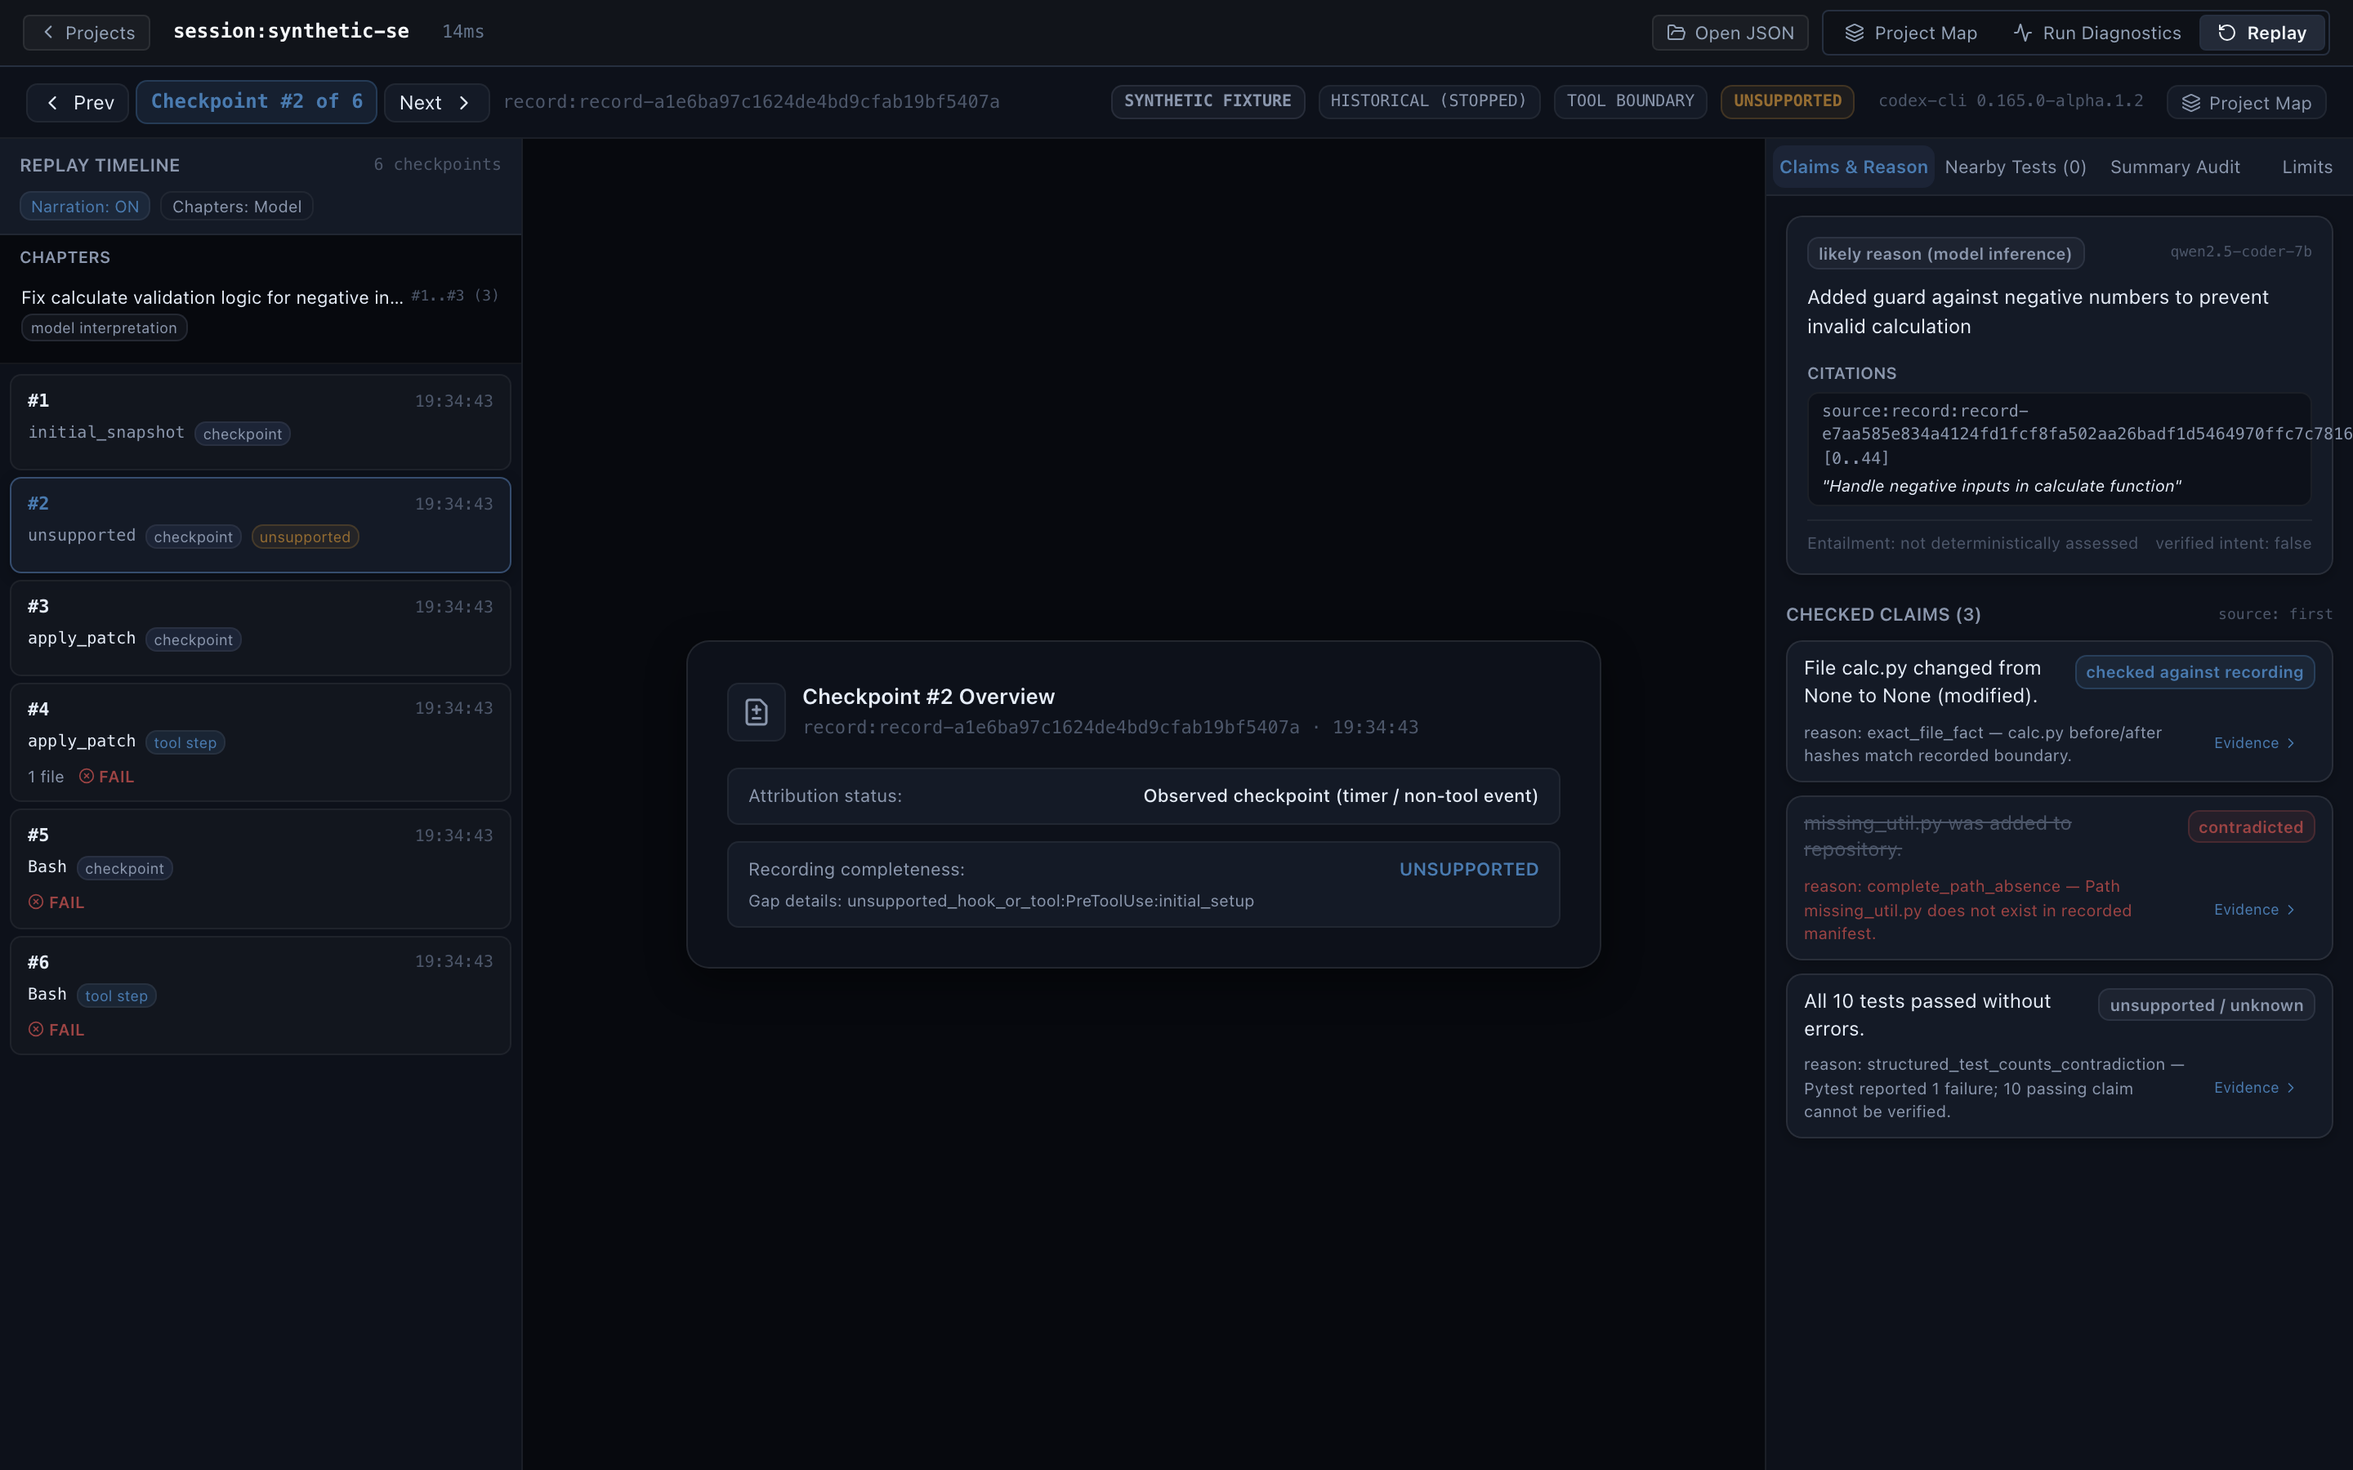
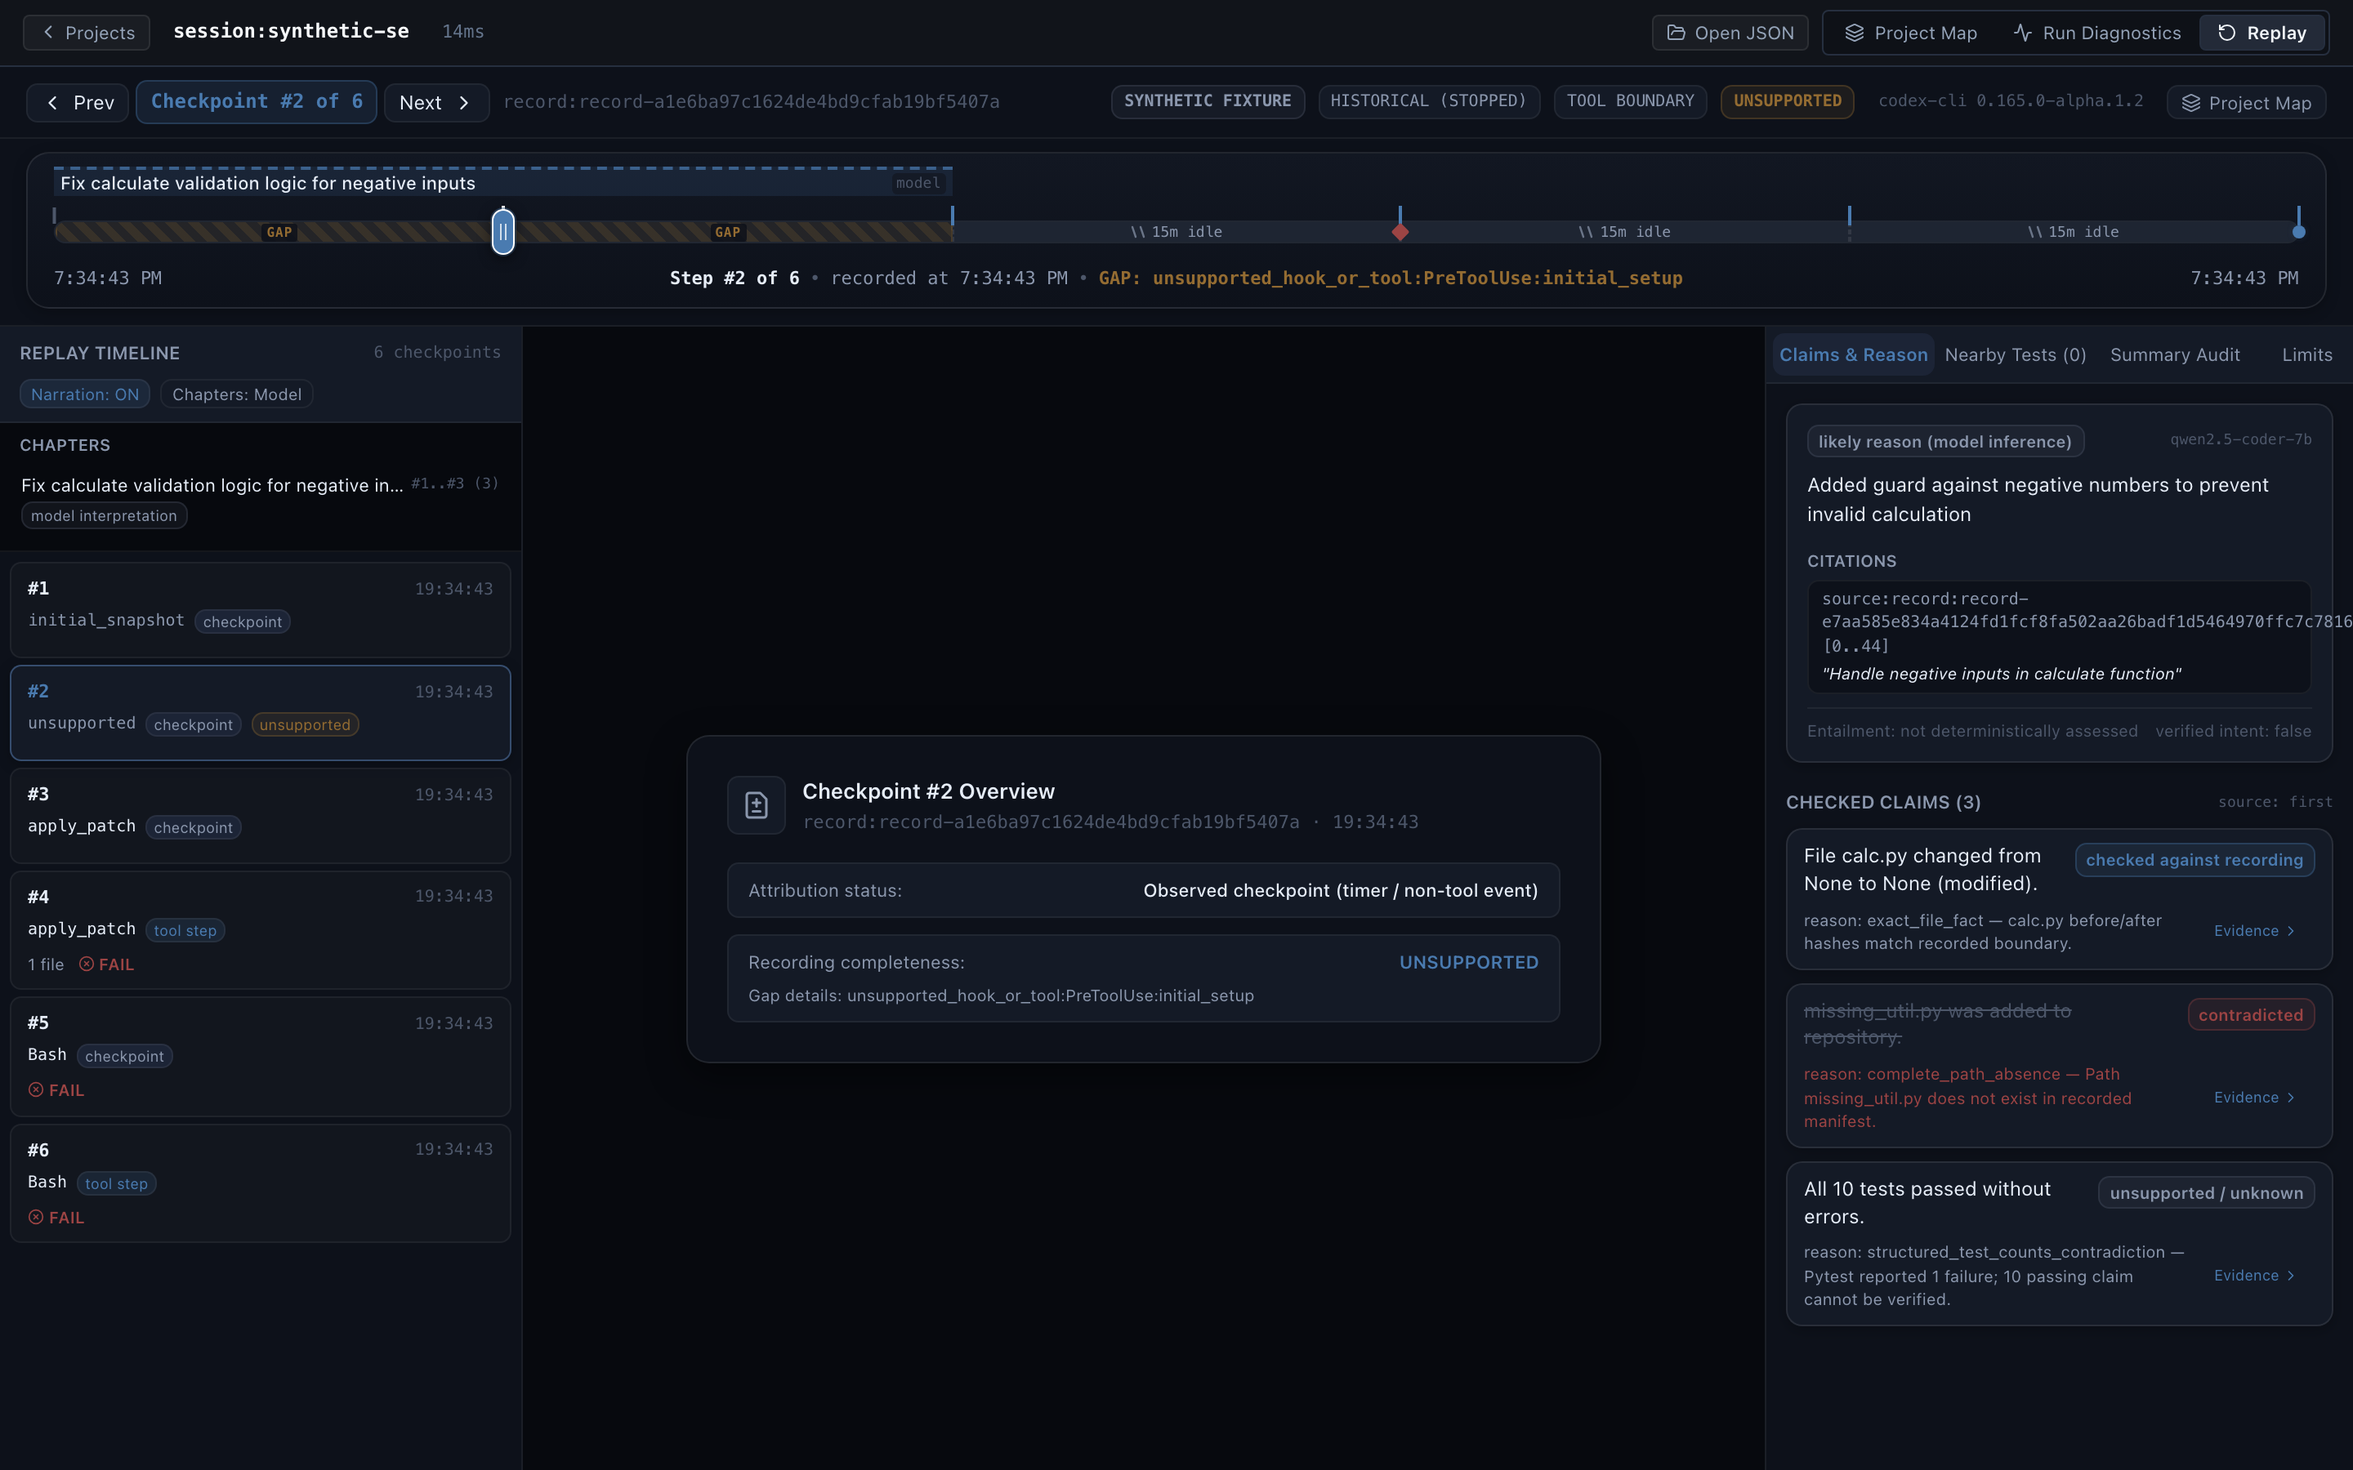
feat(replay-ui): wire hero timeline bar into workspace and capture fresh screenshots

diff --git a/ui/scripts/capture_replay_screenshots.js b/ui/scripts/capture_replay_screenshots.js
@@ -56,84 +56,76 @@ async function main() {
 
     // Upload V2 Enriched Fixture
     console.log('Uploading V2 enriched fixture...');
-    const fileInput = await page.$('input[aria-label="Open recording file input"]') ||
-                      await page.$('input[aria-label="Open JSON file input"]');
+    const fileInput = (await page.$('input[aria-label="Open recording file input"]')) ||
+                      (await page.$('input[aria-label="Open JSON file input"]'));
     if (!fileInput) {
       throw new Error('Could not find file input in UI');
     }
     await fileInput.uploadFile(FIXTURE_V2);
     await new Promise((r) => setTimeout(r, 800));
 
-    // Ensure we are at checkpoint #2 (diff & narration)
+    // View 1: Normal run (hero bar, diff view, chapters, summary audit)
     await page.evaluate(() => {
       const cp2 = document.querySelector('div[data-testid="replay-checkpoint-row-2"]');
       if (cp2) cp2.click();
-      else {
-        const nextBtn = document.querySelector('button[data-testid="replay-next-btn"]');
-        if (nextBtn && !nextBtn.disabled) nextBtn.click();
-      }
-    });
-    await new Promise((r) => setTimeout(r, 600));
-
-    // View 1: Whole recording, chapters/timeline, historical diff and Summary Audit
-    // Switch to Summary Audit tab so View 1 is distinct from View 3
-    await page.evaluate(() => {
       const summaryTab = document.querySelector('button[data-testid="replay-tab-summary"]');
       if (summaryTab) summaryTab.click();
     });
     await new Promise((r) => setTimeout(r, 600));
     await captureState(page, `01_whole_recording_chapters_diff_${vp.name}.png`, vp.width, vp.height);
+    await captureState(page, `01_normal_run_${vp.name}.png`, vp.width, vp.height);
 
-    // View 2: Selected failed test, exact snapshot-match or unverified-state label
-    // Advance to checkpoint #4 where structured test evidence is recorded
+    // View 2: Idle break with axis-break label + failed test marker
+    console.log('Activating axis-break on hero timeline bar and navigating to failed test...');
     await page.evaluate(() => {
+      window.__FAULTMESH_TIMELINE_OPTIONS__ = { idleThresholdMs: 0.5, idleLabel: '15m idle' };
+      window.dispatchEvent(new Event('timeline-options-changed'));
+
       const cp4 = document.querySelector('div[data-testid="replay-checkpoint-row-4"]');
       if (cp4) cp4.click();
-    });
-    await new Promise((r) => setTimeout(r, 600));
 
-    // Switch to Nearby Tests tab
-    await page.evaluate(() => {
       const testsTab = document.querySelector('button[data-testid="replay-tab-tests"]');
       if (testsTab) testsTab.click();
     });
     await new Promise((r) => setTimeout(r, 600));
     await captureState(page, `02_failed_test_state_match_${vp.name}.png`, vp.width, vp.height);
+    await captureState(page, `02_idle_break_axis_label_${vp.name}.png`, vp.width, vp.height);
 
-    // View 3: Evidence inspector: supported, contradicted/struck, unknown and likely-reason inference labels
-    // Return to checkpoint #2 where model narration, checked claims, and citations are recorded
+    // View 3: Chapter segments including a model-interpretation chapter + claims reasoning
+    console.log('Capturing model-interpretation chapter segment on hero bar...');
     await page.evaluate(() => {
+      window.__FAULTMESH_TIMELINE_OPTIONS__ = undefined;
+      window.dispatchEvent(new Event('timeline-options-changed'));
+
       const cp2 = document.querySelector('div[data-testid="replay-checkpoint-row-2"]');
       if (cp2) cp2.click();
-    });
-    await new Promise((r) => setTimeout(r, 600));
 
-    // Switch to Claims & Reason tab
-    await page.evaluate(() => {
       const claimsTab = document.querySelector('button[data-testid="replay-tab-claims"]');
       if (claimsTab) claimsTab.click();
     });
     await new Promise((r) => setTimeout(r, 600));
     await captureState(page, `03_evidence_inspector_verdicts_reason_${vp.name}.png`, vp.width, vp.height);
+    await captureState(page, `04_model_interpretation_chapter_${vp.name}.png`, vp.width, vp.height);
 
-    // View 4: No-model / model-unavailable and partial/missing evidence
-    // Reload page and upload V1 no-model fixture
+    // View 4: Gap region on hero bar + no-model missing evidence
+    console.log('Uploading V1 no-model fixture to demonstrate gap regions on hero bar...');
     await page.goto(fileUrl, { waitUntil: 'networkidle0' });
     await new Promise((r) => setTimeout(r, 600));
-    const fileInputV1 = await page.$('input[aria-label="Open recording file input"]') ||
-                        await page.$('input[aria-label="Open JSON file input"]');
+    const fileInputV1 = (await page.$('input[aria-label="Open recording file input"]')) ||
+                        (await page.$('input[aria-label="Open JSON file input"]'));
     if (fileInputV1) {
       await fileInputV1.uploadFile(FIXTURE_V1);
       await new Promise((r) => setTimeout(r, 800));
     }
 
-    // Go to checkpoint #2 to see the partial snapshot gap
+    // Go to checkpoint #2 to highlight the gap region with hatch pattern and warning state
     await page.evaluate(() => {
       const nextBtn = document.querySelector('button[data-testid="replay-next-btn"]');
       if (nextBtn && !nextBtn.disabled) nextBtn.click();
     });
     await new Promise((r) => setTimeout(r, 600));
     await captureState(page, `04_nomodel_partial_missing_evidence_${vp.name}.png`, vp.width, vp.height);
+    await captureState(page, `03_gap_region_${vp.name}.png`, vp.width, vp.height);
   }
 
   await browser.close();

diff --git a/ui/src/components/replay/ReplayWorkspace.tsx b/ui/src/components/replay/ReplayWorkspace.tsx
@@ -3,6 +3,8 @@ import type { ReplayAdapter } from '../../adapter/replayAdapter';
 import { ReplayTimeline } from './ReplayTimeline';
 import { ReplayDiffViewer } from './ReplayDiffViewer';
 import { ReplayEvidenceInspector } from './ReplayEvidenceInspector';
+import { ReplayTimelineBar } from './ReplayTimelineBar';
+import type { TimeModelOptions } from '../../replay/timeModel';
 import {
   ChevronLeft,
   ChevronRight,
@@ -12,11 +14,13 @@ import {
 interface ReplayWorkspaceProps {
   adapter: ReplayAdapter;
   onOpenProjectMap?: () => void;
+  timelineOptions?: TimeModelOptions;
 }
 
 export const ReplayWorkspace: React.FC<ReplayWorkspaceProps> = ({
   adapter,
   onOpenProjectMap,
+  timelineOptions,
 }) => {
   const timeline = useMemo(() => adapter.getTimeline(), [adapter]);
   const [currentSeq, setCurrentSeq] = useState<number>(() => adapter.getCurrentSequence());
@@ -44,6 +48,31 @@ export const ReplayWorkspace: React.FC<ReplayWorkspaceProps> = ({
   const testsForCurrentSeq = useMemo(() => {
     return adapter.getTestsForSequence(currentSeq);
   }, [adapter, currentSeq]);
+
+  const allTests = useMemo(() => {
+    return adapter.getAllTests ? adapter.getAllTests() : [];
+  }, [adapter]);
+
+  const [effectiveTimelineOptions, setEffectiveTimelineOptions] = useState<TimeModelOptions | undefined>(() => {
+    if (timelineOptions) return timelineOptions;
+    if (typeof window !== 'undefined' && (window as any).__FAULTMESH_TIMELINE_OPTIONS__) {
+      return (window as any).__FAULTMESH_TIMELINE_OPTIONS__;
+    }
+    return undefined;
+  });
+
+  useEffect(() => {
+    const updateOptions = () => {
+      if (timelineOptions) {
+        setEffectiveTimelineOptions(timelineOptions);
+      } else if (typeof window !== 'undefined' && (window as any).__FAULTMESH_TIMELINE_OPTIONS__) {
+        setEffectiveTimelineOptions({ ...(window as any).__FAULTMESH_TIMELINE_OPTIONS__ });
+      }
+    };
+    updateOptions();
+    window.addEventListener('timeline-options-changed', updateOptions);
+    return () => window.removeEventListener('timeline-options-changed', updateOptions);
+  }, [timelineOptions]);
 
   // Set sequence and update adapter
   const handleSelectSequence = useCallback(
@@ -350,6 +379,26 @@ export const ReplayWorkspace: React.FC<ReplayWorkspaceProps> = ({
             </button>
           )}
         </div>
+      </div>
+
+      {/* Hero Timeline Bar */}
+      <div
+        style={{
+          padding: '8px 16px 10px 16px',
+          borderBottom: '1px solid var(--replay-border-subtle, rgba(255, 255, 255, 0.06))',
+          backgroundColor: 'var(--replay-bg-surface-1, #0d111a)',
+          flexShrink: 0,
+        }}
+        data-testid="replay-hero-bar-container"
+      >
+        <ReplayTimelineBar
+          timeline={timeline}
+          currentSequence={currentSeq}
+          onSelectSequence={handleSelectSequence}
+          chapters={chapters}
+          tests={allTests}
+          options={effectiveTimelineOptions}
+        />
       </div>
 
       {/* Main 3-Column Obsidian-Style Layout */}

diff --git a/ui/src/replay/timeModel.ts b/ui/src/replay/timeModel.ts
@@ -42,6 +42,12 @@ export interface TimeModelOptions {
    * If omitted, formats in the user's local runtime time zone.
    */
   timeZone?: string;
+
+  /**
+   * Optional custom label for idle breaks (e.g. '15m idle').
+   * If omitted, calculated from idleDurationMs via formatIdleDuration.
+   */
+  idleLabel?: string;
 }
 
 export interface StepPosition {
@@ -281,8 +287,8 @@ export function computeTimelineBarGeometry(params: {
     const curTs = parsedTimestamps[i];
     const nextTs = parsedTimestamps[i + 1];
 
-    const isCurGap = cur.record_type === 'gap';
-    const isNextGap = next.record_type === 'gap';
+    const isCurGap = cur.record_type === 'gap' || cur.record_type === 'unsupported';
+    const isNextGap = next.record_type === 'gap' || next.record_type === 'unsupported';
 
     if (isCurGap || isNextGap) {
       // Gap stretch: elapsed time is UNKNOWN. Assign fixed gap weight.
@@ -376,7 +382,7 @@ export function computeTimelineBarGeometry(params: {
         endRatio,
         centerRatio,
         durationMs: it.idleDurationMs,
-        label: formatIdleDuration(it.idleDurationMs),
+        label: options.idleLabel ?? formatIdleDuration(it.idleDurationMs),
         startCapturedAt: steps[i].captured_at,
         endCapturedAt: steps[i + 1].captured_at,
       });

diff --git a/ui/src/adapter/replayAdapter.ts b/ui/src/adapter/replayAdapter.ts
@@ -173,6 +173,10 @@ export class ReplayAdapter implements FaultMeshAdapter {
     return [];
   }
 
+  public getAllTests(): StructuredTestEvidence[] {
+    return this.exported.tests || [];
+  }
+
   public detectCaptureGranularity(): AttributionStatus {
     const attributions = this.exported.timeline.map((t) => t.attribution_status);
     if (attributions.includes('tool_boundary')) return 'tool_boundary';

diff --git a/docs/replay-timeline-progress.md b/docs/replay-timeline-progress.md
@@ -212,6 +212,10 @@ Status: complete. Hero scrubber component implemented with pure time geometry, c
     - `role="slider"`, `tabIndex={0}`, `aria-label="Timeline scrubber"`.
     - `aria-valuenow`, `aria-valuemin`, `aria-valuemax`, and descriptive `aria-valuetext`.
     - Keyboard navigation: Left/Right arrows or j/k (step prev/next), Home/End (first/last step), PgUp/PgDn (prev/next chapter start).
+- **Workspace Integration**: `ui/src/components/replay/ReplayWorkspace.tsx`
+  - Wired `ReplayTimelineBar` as the hero element directly below the header spanning full workspace width.
+  - Connected two-way to session step navigation (`currentSeq`, `handleSelectSequence`, timeline ticks, diff viewer, evidence inspector, and header sequence badge).
+  - Wired `adapter.getAllTests()` and dynamic timeline options (`timeline-options-changed`).
 - **Styles**: `ui/src/styles/replay.css`
   - Added dedicated classes for `.replay-timeline-bar-root`, chapter lane/segments, track lane/rail, axis breaks, gap hatch pattern, ticks, test markers, and thumb scrubber using calm `--replay-*` tokens.
 
@@ -227,6 +231,13 @@ Status: complete. Hero scrubber component implemented with pure time geometry, c
   8. Full keyboard navigation: Left/Right, j/k, Home/End, PgUp/PgDn.
   9. Boundary protection: preventing overshoots before first step or beyond last step.
   10. Hover tooltips: chapters (deterministic vs discontinuous model), gap reasons, axis breaks, test results, and mouse leave dismissal.
+
+### Real Screenshot Capture (`docs/screenshots/replay/`)
+- Captured fresh, distinct screenshots using the headless Chrome harness (`capture_replay_screenshots.js`) against the real fixtures (`fixture_replay_v2_enriched.json` and `fixture_replay_v1_nomodel.json`) at 1440x900 and 1024x700:
+  - **Normal Run**: `01_normal_run_${vp.name}.png` & `01_whole_recording_chapters_diff_${vp.name}.png` (hero timeline bar spanning full width, diff viewer, chapter list, summary audit).
+  - **Idle Break with Axis-Break Label**: `02_idle_break_axis_label_${vp.name}.png` & `02_failed_test_state_match_${vp.name}.png` (hero bar showing axis-break squiggle with `15m idle` label + test markers with failed test state match).
+  - **Gap Region**: `03_gap_region_${vp.name}.png` & `04_nomodel_partial_missing_evidence_${vp.name}.png` (hero bar showing diagonal warning hatch pattern, warning border, and `GAP` badge for unrecorded gap record with partial/missing evidence).
+  - **Model Interpretation Chapter**: `04_model_interpretation_chapter_${vp.name}.png` & `03_evidence_inspector_verdicts_reason_${vp.name}.png` (hero bar showing chapter bracket with dashed border and `model` pill tag + evidence claims and likelihood reasoning).
 
 ### Quality & Verification Results
 - `npm test`: 26/26 test files passed (212 Vitest tests, 8 Electron node tests).
